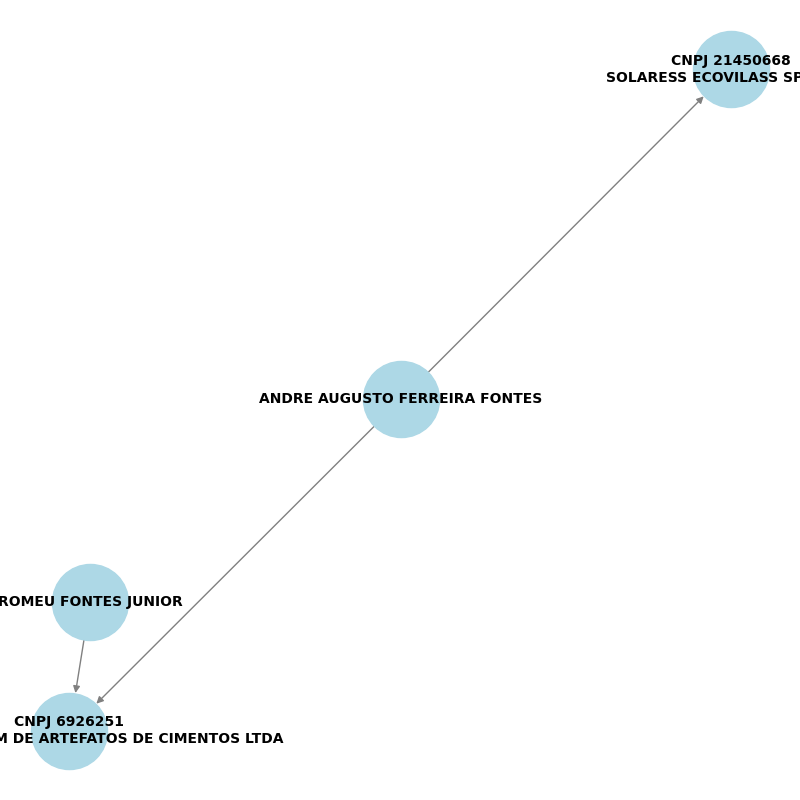
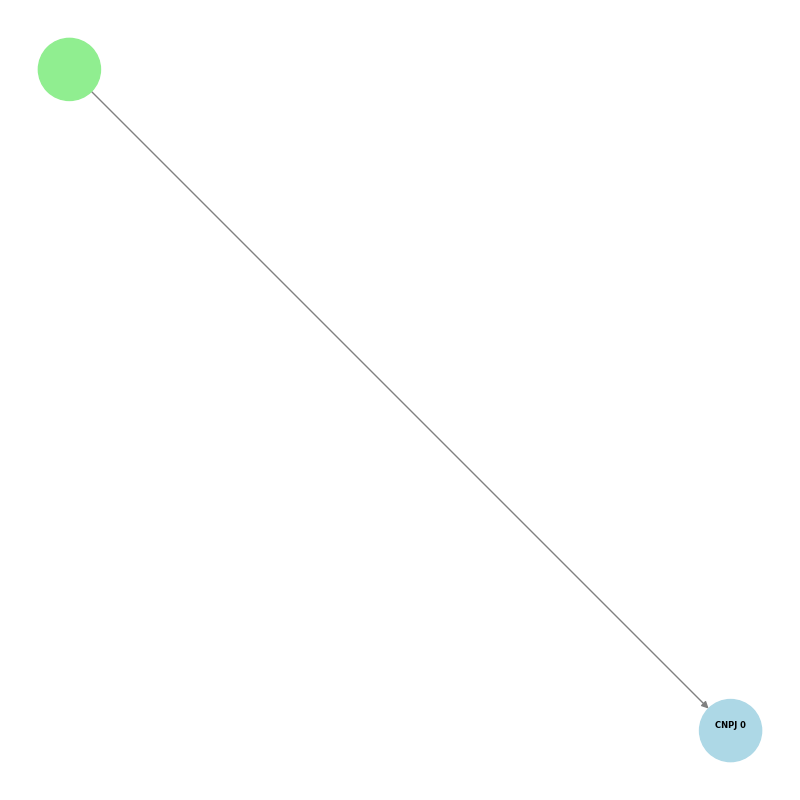
update 202411131253

diff --git a/src/pages/busca.html b/src/pages/busca.html
@@ -6,27 +6,49 @@
         <h2 class="title-search">Buscar</h2>
         <form action="" method="post" class="modal-input">
             <div class="form-group-search">
-                <label for="CPF" class="text-cpf">CPF</label><br>
-                <input class="input-cpf"name="CPF" placeholder="Digite um CPF"class="form-control">{{ request.form['content'] }}</input>
-            </div>
-            <div class="content-search">
-                <span></span>
-                <span>OR</span>
-                <span></span>
-              </div>
-            <div class="form-group-search">
-                <label for="CNPJ" class="text-cpf">CNPJ</label><br>
-                <input class="input-cpf"name="CNPJ" placeholder="Digite um CNPJ"class="form-control">{{ request.form['content'] }}</input>
+                <label for="CPF" class="text-cpf">Socio pesquisado</label><br>
+                <input class="input-cpf" name="SOCIO" placeholder="Digite o nome de um socio para pesquisa"class="form-control">{{ request.form['content'] }}</input>
             </div>
             <div class="btnsearch">
                 <button class="button-send1"type="submit" class="btn btn-primary">Enviar</button>
             </div>
         </form>
+        <div>
+            <h1>Tabela de Dados</h1>
+            
+            <div class="table-container">
+                <table>
+                    <thead>
+                        <tr><th>Nivel da Busca</th>
+                            <th>CNPJ Basico</th>
+                            <th>Razao Social</th>
+                            <th>Tipo Socio</th>
+                            <th>Nome ou Razao do Socio</th>
+                            <th>CPF ou CNPF do Socio</th>
+                            <th>Qualificação do Socio</th>
+                        </tr>
+                    </thead>
+                    <tbody>
+                        <!-- Iterando sobre os dados passados do Flask -->
+                        {% for pessoa in dados %}
+                            <tr>
+                                <td>{{ pessoa.L}}</td>
+                                <td>{{ pessoa.CNPJ_BASICO }}</td>
+                                <td>{{ pessoa.RAZAO_SOCIAL }}</td>
+                                <td>{{ pessoa.TIPO_SOCIO }}</td>
+                                <td>{{ pessoa.NOME_OU_RAZAO_SOCIAL }}</td>
+                                <td>{{ pessoa.CNPJ_CPF }}</td>
+                                <td>{{ pessoa.NM_QUALS }}</td>
+                            </tr>
+                        {% endfor %}
+                    </tbody>
+                </table>
+            </div>
+        </div>
     </div>
     <div class="modal-result">
         <div class="frame">
-
-            
+            <img src="{{ url_for('static', filename=graph_image) }}" alt="Grafo Societário">
         </div>
     </div>
 </div>

diff --git a/src/static/style.css b/src/static/style.css
@@ -491,23 +491,55 @@ transform: translateY(-0.2em);
     border-radius:10%;
     background-color:var(--cor-principal);
   }
-  /* home */
-  .master-home{
+
+.table-container {
+    width: 100%;
+    max-height: 400px;  /* Altura máxima da tabela */
+    overflow-y: auto;   /* Barra de rolagem vertical */
+    margin-top: 20px;
+}
+
+img {
+    max-width: 100%;
+    height: auto;
+    border: 2px solid #ddd;
+}
+
+table {
+    width: 100%;
+    border-collapse: collapse;
+    margin: 20px 0;
+}
+
+th, td {
+    padding: 8px 12px;
+    border: 1px solid #ddd;
+    text-align: left;
+}
+
+th {
+    background-color: #f4f4f4;
+}
+
+/* home */
+.master-home{
     color: black;
     width:100%;
     height:100%;
     display: flex;
     justify-content:center;
-  }
-  .divImage{
+}
+
+.divImage{
     width:50%;
     height:100%;
     display: flex;
     padding-left:6%;
     justify-content: center;
     align-items: center;
-  }
-  .info-home{
+}
+
+.info-home{
     width:50%;
     height:100%;
     display: flex;
@@ -516,7 +548,8 @@ transform: translateY(-0.2em);
     padding-top:7%;
     padding-right:5%;
     gap:8%;
-  }
+}
+
 .title-main{
     color:var(--cor-principal);
     font-size:3.0rem;

diff --git a/src/control/mainController.py b/src/control/mainController.py
@@ -4,6 +4,7 @@ from src.database.user import User
 from src import app
 
 import os
+import json
 import networkx as nx
 import matplotlib.pyplot as plt
 
@@ -20,7 +21,7 @@ class MainController():
         app.add_url_rule('/busca', view_func=self.busca, methods=['GET'])
         app.add_url_rule('/sobre', view_func=self.sobre, methods=['GET'])
         app.add_url_rule('/ajuda', view_func=self.ajuda, methods=['GET'])
-        app.add_url_rule('/chat', view_func=self.chat, methods=['GET'])
+        app.add_url_rule('/busca', view_func=self.chat, methods=['POST'])
 
     def main(self):
         if request.method == 'POST':
@@ -95,26 +96,59 @@ class MainController():
         return render_template('sobre.html')
     
     def chat(self):
+        # ler o arquivo json com os dados
+        base_dir = os.path.dirname(os.path.abspath(__file__))
+        app_path = os.path.dirname( base_dir )
+
+        pesquisado = request.form['SOCIO']
+        if pesquisado == "ANDRE AUGUSTO FERREIRA FONTES":
+            arquivo_json = app_path+"/static/DF1.json" 
+        elif pesquisado == "ALEXANDRE TADEU DA COSTA":
+            arquivo_json = app_path+"/static/DF2.json" 
+        elif pesquisado == "ARTHUR QUEIROGA BANDEIRA DE AGUIAR":
+            arquivo_json = app_path+"/static/DF3.json" 
+        else:
+            arquivo_json = app_path+"/static/DF0.json" 
+        
+        try:
+            with open(arquivo_json, 'r', encoding='utf-8') as f:
+                dados = json.load(f)
+        except json.JSONDecodeError:
+            print("Erro ao decodificar o arquivo JSON.")
+        except FileNotFoundError:
+            print(f"O arquivo {arquivo_json} não foi encontrado.")
+
+
         # Criar o grafo societário
         G = nx.DiGraph()
 
-        # Adicionando nós (empresas)
-        G.add_node("ANDRE AUGUSTO FERREIRA FONTES")
-        G.add_node("CNPJ 21450668\nSOLARESS ECOVILASS SPE LTDA")
-        G.add_node("CNPJ 6926251\nDHOMIR IND E COM DE ARTEFATOS DE CIMENTOS LTDA")
-        G.add_node("ROMEU FONTES JUNIOR")
+        for entidade in dados:
+            socio   = entidade["NOME_OU_RAZAO_SOCIAL"]
+            empresa = "CNPJ "+str(entidade["CNPJ_BASICO"])+"\n"+entidade["RAZAO_SOCIAL"]
+            
+            # Adicionando nós (empresas)
+            if not G.has_node( socio ):  # Verifica se o nó já existe
+               G.add_node( socio, tipo='socio' )
+            if not G.has_node( empresa ):  # Verifica se o nó já existe
+               G.add_node( empresa, tipo='empresa' )   
 
-        # Adicionando arestas (relações societárias)
-        G.add_edge("ANDRE AUGUSTO FERREIRA FONTES", "CNPJ 21450668\nSOLARESS ECOVILASS SPE LTDA")  # Empresa A possui participação na Empresa B
-        G.add_edge("ANDRE AUGUSTO FERREIRA FONTES", "CNPJ 6926251\nDHOMIR IND E COM DE ARTEFATOS DE CIMENTOS LTDA")  # Empresa A possui participação na Empresa C
-        G.add_edge("ROMEU FONTES JUNIOR", "CNPJ 6926251\nDHOMIR IND E COM DE ARTEFATOS DE CIMENTOS LTDA")  # Empresa B possui participação na Empresa D
+            # Adicionando arestas (relações societárias)
+            G.add_edge( socio, empresa)  
+
+        # Gerar a cor dos nós com base no atributo 'tipo'
+        node_colors = []
+        for node in G.nodes():
+            if G.nodes[node]['tipo'] == 'socio':
+                node_colors.append('lightgreen')  # Cor para os sócios
+            else:
+                node_colors.append('lightblue')  # Cor para as empresas
 
         # Gerar e salvar a imagem do grafo
         image_path = os.path.join(app.static_folder, 'graph.png')
         plt.figure(figsize=(8, 8))
-        nx.draw(G, with_labels=True, node_color='lightblue', node_size=3000, font_size=10, font_weight='bold', edge_color='gray')
+        nx.draw(G, with_labels=True, node_color=node_colors, node_size=2000, font_size=6, font_weight='bold', edge_color='gray')
         plt.savefig(image_path)
         plt.close()
 
         # Renderizar o template com o caminho da imagem
-        return render_template('chat.html', graph_image='graph.png')
+        return render_template('busca.html', graph_image='graph.png',  dados=dados )

diff --git a/README.md b/README.md
@@ -14,3 +14,16 @@ curl -H "Content-Type: application/json" -X POST localhost:8080/userregister -d 
 
 Video de base para js
 https://www.youtube.com/watch?v=omQBSo_DnIA
+
+
+
+Para consulta utilizar
+
+# Dhomini, foi o vencedor do BBB 3 - DF1.json
+ANDRE AUGUSTO FERREIRA FONTES
+
+# Fundador da Cacau Show. - DF2.json
+ALEXANDRE TADEU DA COSTA	
+
+# Arthur Aguiar, é um ator, cantor e ex-atleta brasileiro.
+ARTHUR QUEIROGA BANDEIRA DE AGUIAR	
